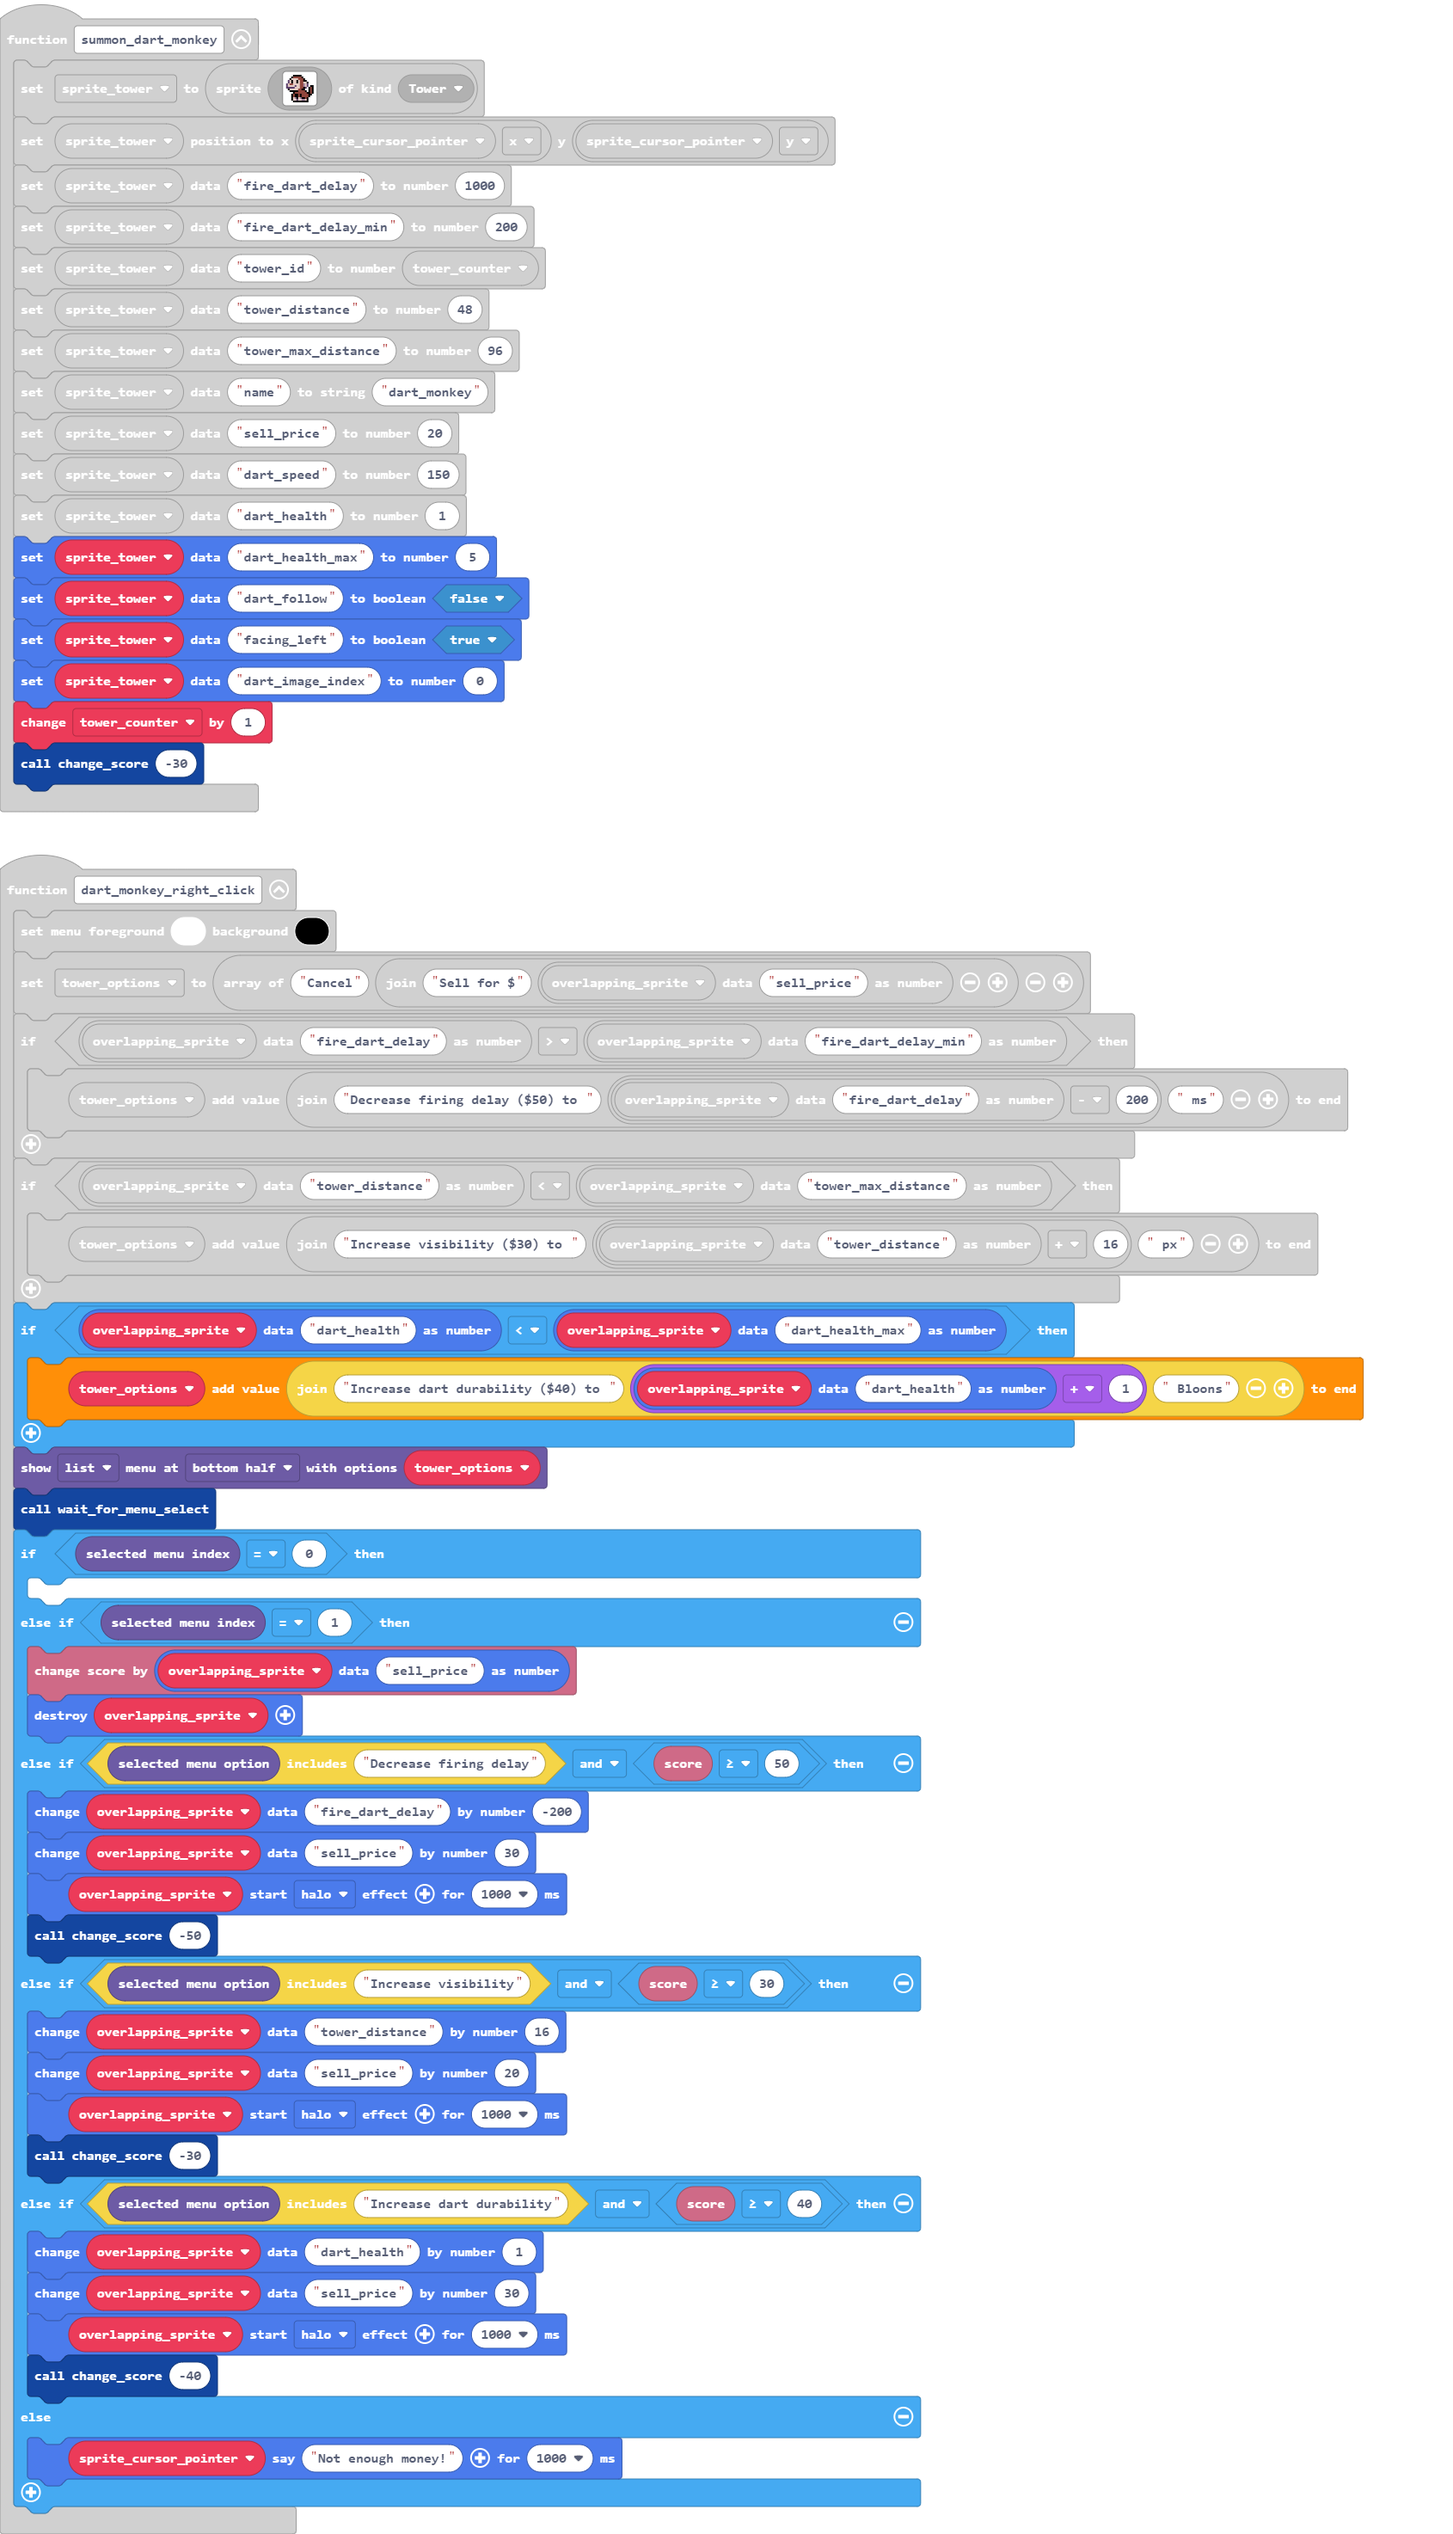
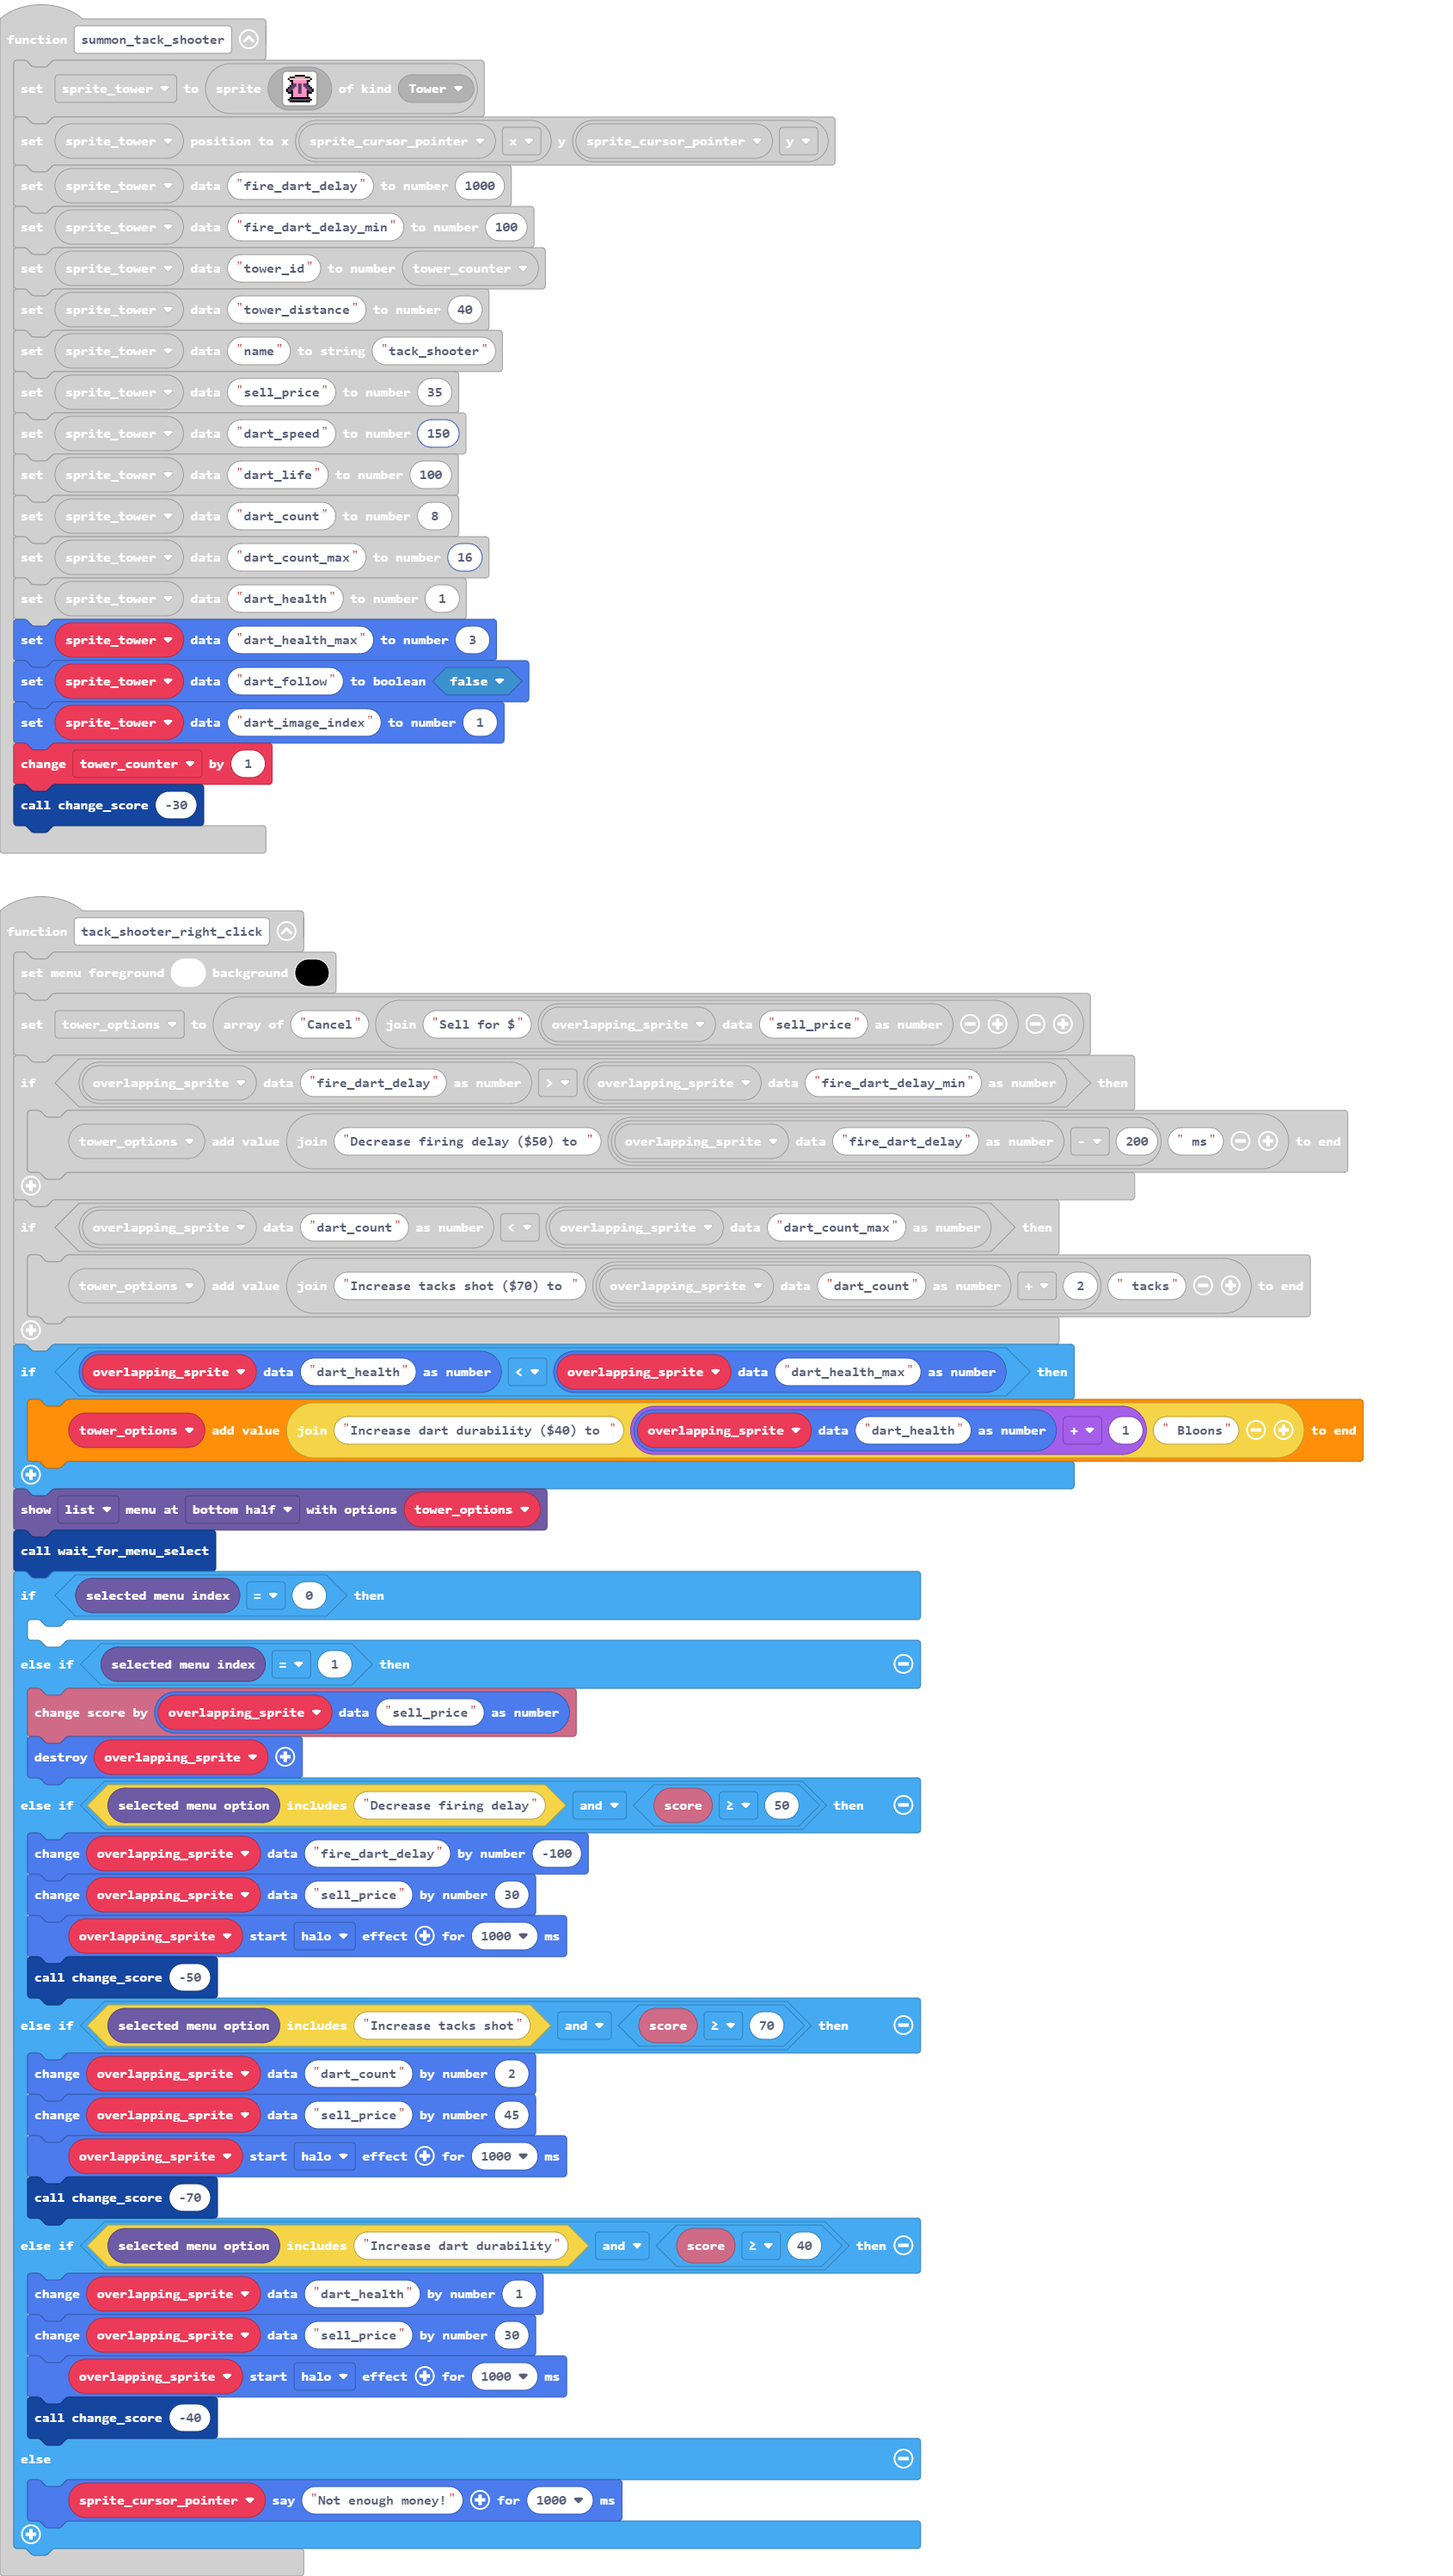
Add third upgrade option to tack shooters

Changed region(s): [[0.0, 0.0, 0.9538, 1.0], [0.4, 0.0312, 0.5538, 0.0624], [0.6154, 0.9365, 0.6462, 0.9678]]

diff --git a/main.ts b/main.ts
@@ -140,6 +140,9 @@ function tack_shooter_right_click () {
     if (sprites.readDataNumber(overlapping_sprite, "dart_count") < sprites.readDataNumber(overlapping_sprite, "dart_count_max")) {
         tower_options.push("Increase tacks shot ($70) to " + (sprites.readDataNumber(overlapping_sprite, "dart_count") + 2) + " tacks")
     }
+    if (sprites.readDataNumber(overlapping_sprite, "dart_health") < sprites.readDataNumber(overlapping_sprite, "dart_health_max")) {
+        tower_options.push("Increase dart durability ($40) to " + (sprites.readDataNumber(overlapping_sprite, "dart_health") + 1) + " Bloons")
+    }
     blockMenu.showMenu(tower_options, MenuStyle.List, MenuLocation.BottomHalf)
     wait_for_menu_select()
     if (blockMenu.selectedMenuIndex() == 0) {
@@ -157,6 +160,11 @@ function tack_shooter_right_click () {
         sprites.changeDataNumberBy(overlapping_sprite, "sell_price", 45)
         overlapping_sprite.startEffect(effects.halo, 1000)
         change_score(-70)
+    } else if (blockMenu.selectedMenuOption().includes("Increase dart durability") && info.score() >= 40) {
+        sprites.changeDataNumberBy(overlapping_sprite, "dart_health", 1)
+        sprites.changeDataNumberBy(overlapping_sprite, "sell_price", 30)
+        overlapping_sprite.startEffect(effects.halo, 1000)
+        change_score(-40)
     } else {
         sprite_cursor_pointer.say("Not enough money!", 1000)
     }
@@ -682,11 +690,12 @@ function summon_tack_shooter () {
     sprites.setDataNumber(sprite_tower, "tower_distance", 40)
     sprites.setDataString(sprite_tower, "name", "tack_shooter")
     sprites.setDataNumber(sprite_tower, "sell_price", 35)
-    sprites.setDataNumber(sprite_tower, "dart_speed", 200)
+    sprites.setDataNumber(sprite_tower, "dart_speed", 150)
     sprites.setDataNumber(sprite_tower, "dart_life", 100)
     sprites.setDataNumber(sprite_tower, "dart_count", 8)
-    sprites.setDataNumber(sprite_tower, "dart_count_max", 32)
+    sprites.setDataNumber(sprite_tower, "dart_count_max", 16)
     sprites.setDataNumber(sprite_tower, "dart_health", 1)
+    sprites.setDataNumber(sprite_tower, "dart_health_max", 3)
     sprites.setDataBoolean(sprite_tower, "dart_follow", false)
     sprites.setDataNumber(sprite_tower, "dart_image_index", 1)
     tower_counter += 1
